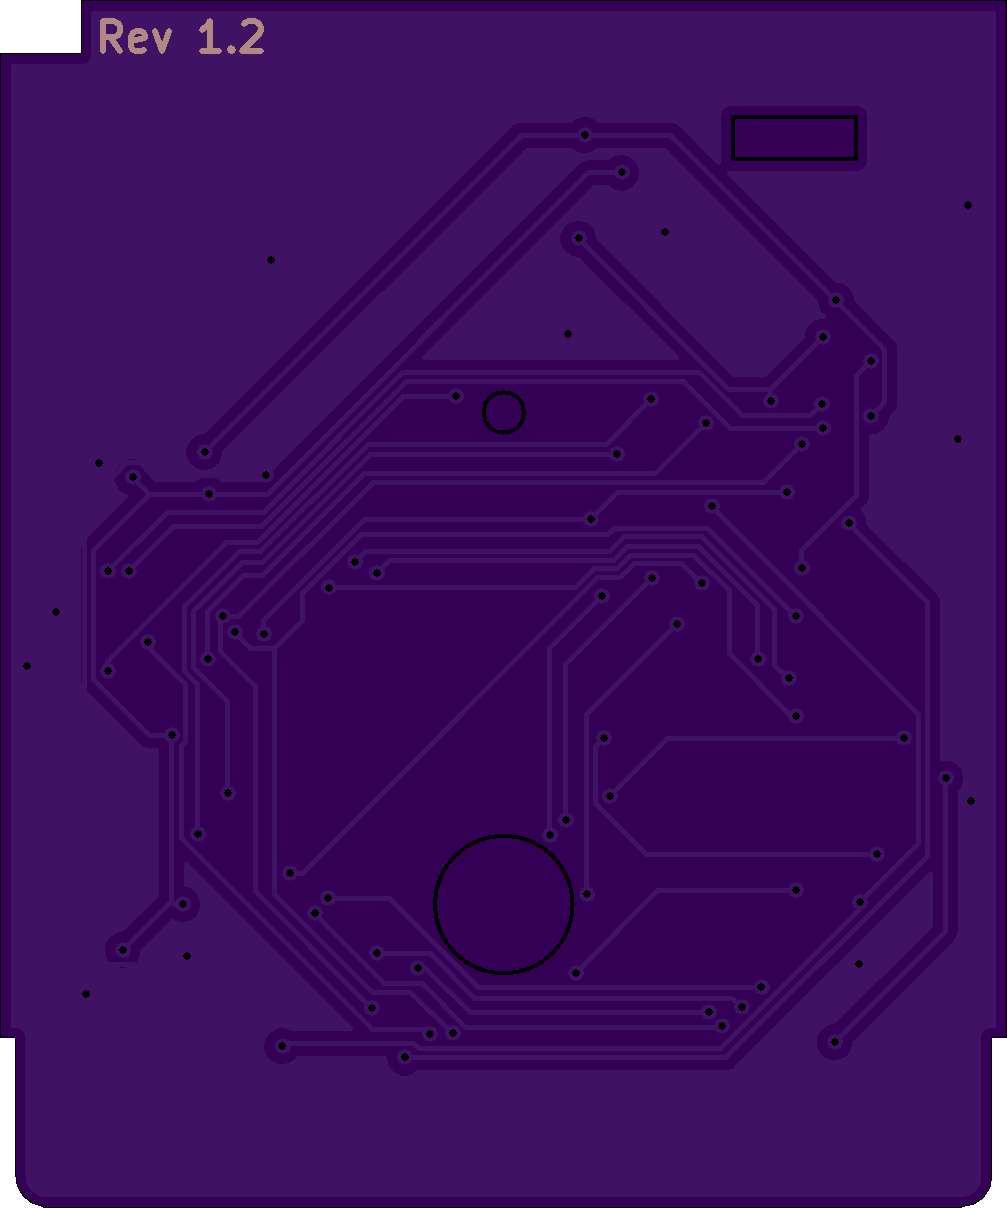
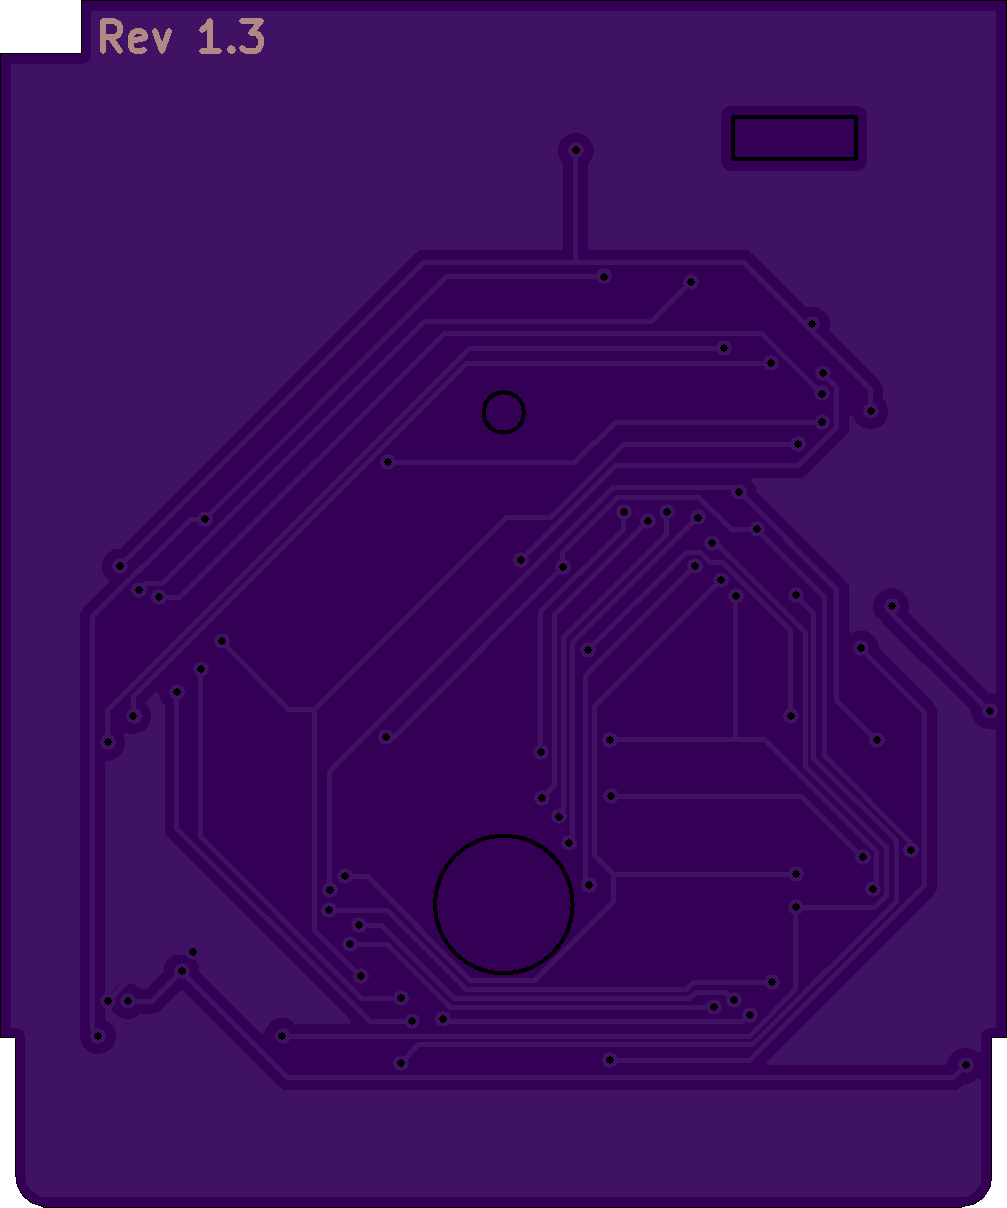
1.3
- Fixed some issues with the traces around Y1
- Rerouted PCB

diff --git a/readme.md b/readme.md
@@ -2,7 +2,7 @@ MBC3 Flashcart based on retroreboot's cartridge that uses 0603 components and ha
 
 Order at 0.8mm not 1.6!!!
 
-[Purchase on OSHPARK](https://oshpark.com/shared_projects/Qqr82n7y)
+[Purchase on OSHPARK](https://oshpark.com/shared_projects/MR558k1I)
 
 ## BOM
 
